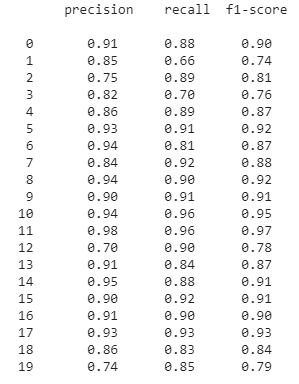
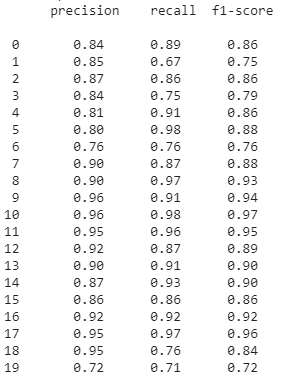
Update results for WRNN model.

diff --git a/README.md b/README.md
@@ -39,7 +39,7 @@ The following diagram illustrates the architecture of WRNN:
 | Model | Test Accuracy | Macro avg. precision | Macro avg. recall | Macro avg. F1 | Avg. time/epoch | Convergence rate |
 | ----- | ------------- | -------------------- | ----------------- | ------------- | --------------- | ---------------- |
 | WRNN (GRU unit) | 85.73 | 86.0 | 85.0 | 85.0 | 40.02 | 7 |
-| WRNN (LSTM unit) | 87.37 | 88.0 | 87.0 | 87.0 | 34.23 | 9 |
+| WRNN (LSTM unit) | 87.69 | 88.0 | 87.0 | 87.0 | 34.99 | 11 |
 | GRU baseline | 81.37 | 82.0 | 80.0 | 81.0 | 41.31 | 3 |
 | BiGRU baseline | 77.88 | 79.0 | 77.0 | 78.0 | 75.66 | 3 |
 ### WRNN (GRU unit) Statistics
